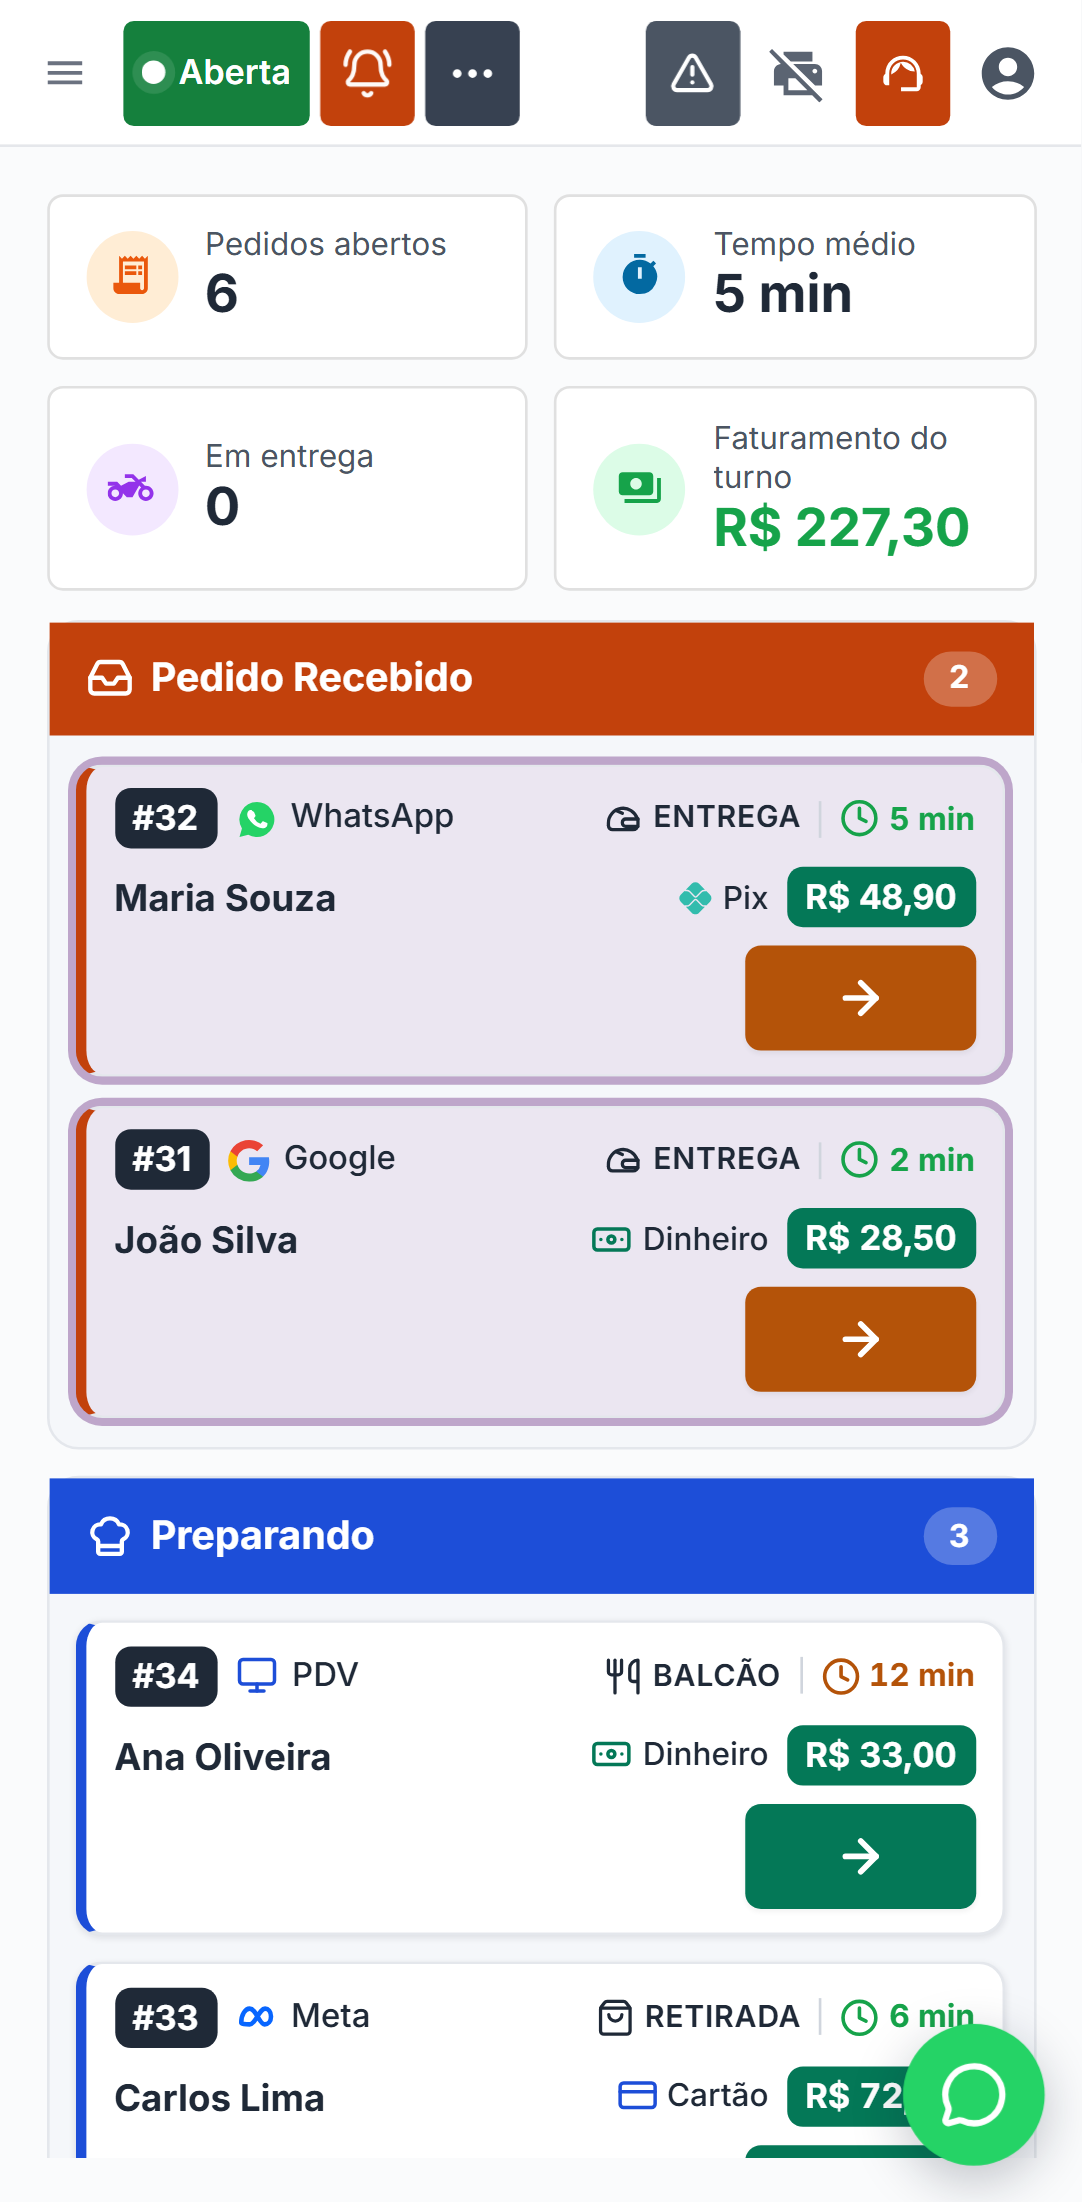
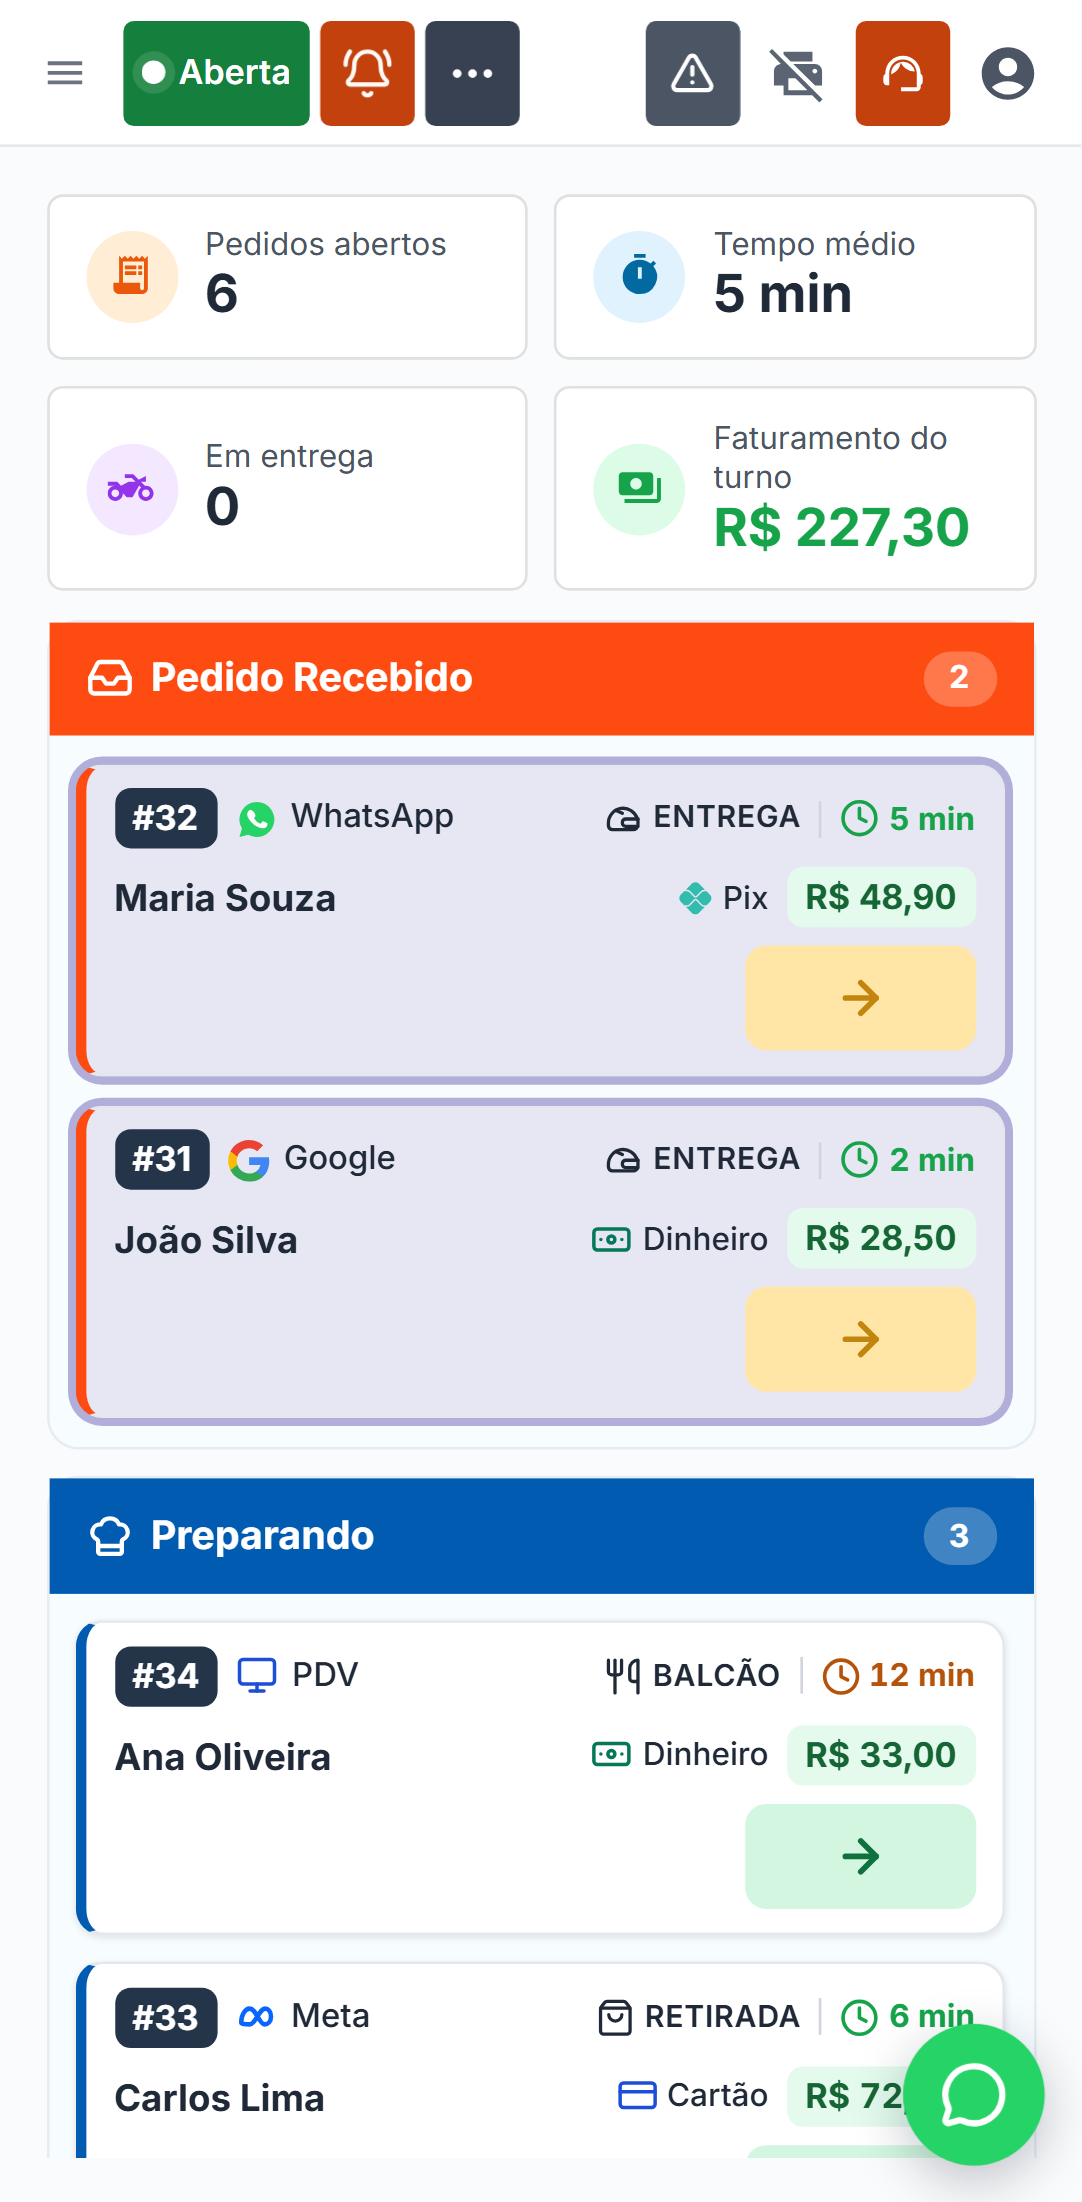
fix(kanban): cores e botões exatamente como o modelo do item 56 (botões claros com seta colorida, selo do valor verde-claro, cabeçalhos #FE4B11/#015BB1/#00946E)
O dono pediu o Kanban exatamente como a imagem: sai a exigência de fundo sempre escuro nos
botões. Faixa do card na cor do cabeçalho; verde do painel igual ao da seta.

diff --git a/app/admin/pedidos/page.tsx b/app/admin/pedidos/page.tsx
@@ -87,21 +87,21 @@ interface ColunaConfig {
 const COLUNA_CONFIG: Record<Coluna, ColunaConfig> = {
   recebido: {
     label: 'Pedido Recebido',
-    headerBg: 'bg-[#C2410C]',
+    headerBg: 'bg-[#FE4B11]',
     Icon: Inbox,
     emptyTitle: 'Nenhum pedido novo',
     EmptyIcon: Inbox,
   },
   preparando: {
     label: 'Preparando',
-    headerBg: 'bg-[#1D4ED8]',
+    headerBg: 'bg-[#015BB1]',
     Icon: ChefHat,
     emptyTitle: 'Nada em preparo',
     EmptyIcon: ChefHat,
   },
   pronto: {
     label: 'Pronto p/ Despacho',
-    headerBg: 'bg-[#047857]',
+    headerBg: 'bg-[#00946E]',
     Icon: HandPlatter,
     emptyTitle: 'Nada pronto ainda',
     EmptyIcon: HandPlatter,
@@ -145,8 +145,8 @@ function SubSecao({ titulo, cor, vazio, children }: { titulo: string; cor: strin
 
 /** Estado vazio de uma coluna do Kanban: ilustração cinza-clara em vez de texto solto. */
 /**
- * Botão de etapa do card (item 56): só a seta branca, à direita. Amarelo forte = aceitar; verde = próxima
- * etapa. Fundo sólido escuro o bastante para a seta branca passar de 4,5:1; cantos pouco arredondados.
+ * Botão de etapa do card (item 56): só a seta, à direita, IGUAL ao modelo (docs/kanban-56/modelo.jpeg):
+ * amarelo-claro com seta âmbar = aceitar; verde-claro com seta verde = próxima etapa.
  */
 function BotaoEtapa({ cor, rotulo, onClick }: { cor: 'aceitar' | 'avancar'; rotulo: string; onClick: () => void }) {
   return (
@@ -157,7 +157,7 @@ function BotaoEtapa({ cor, rotulo, onClick }: { cor: 'aceitar' | 'avancar'; rotu
       title={rotulo}
       data-testid="card-etapa"
       data-cor={cor}
-      className={`inline-flex h-[34px] w-[88px] items-center justify-center rounded-[6px] text-white shadow-sm transition-colors focus-visible:outline focus-visible:outline-2 focus-visible:outline-offset-2 focus-visible:outline-[#1F2937] active:scale-[0.98] ${cor === 'aceitar' ? 'bg-[#B45309] hover:bg-[#92400E]' : 'bg-[#047857] hover:bg-[#065F46]'}`}
+      className={`inline-flex h-[30px] w-[88px] items-center justify-center rounded-[8px] transition-colors focus-visible:outline focus-visible:outline-2 focus-visible:outline-offset-2 focus-visible:outline-[#1F2937] active:scale-[0.98] ${cor === 'aceitar' ? 'bg-[#FFE6A6] text-[#C2850D] hover:bg-[#FFDB85]' : 'bg-[#D3F6E0] text-[#0F713E] hover:bg-[#BDEFD0]'}`}
     >
       <ArrowRight className="h-[20px] w-[20px]" strokeWidth={2.6} aria-hidden />
     </button>
@@ -962,9 +962,9 @@ export default function PedidosPage() {
           {(['recebido', 'preparando', 'pronto'] as Coluna[]).map((coluna) => {
             const colOrders = orders.filter((o) => colunaDe(o) === coluna)
             const cfg = COLUNA_CONFIG[coluna]
-            const accent: Record<Coluna, string> = { recebido: 'border-l-[#C2410C]', preparando: 'border-l-[#1D4ED8]', pronto: 'border-l-[#047857]' }
+            const accent: Record<Coluna, string> = { recebido: 'border-l-[#FE4B11]', preparando: 'border-l-[#015BB1]', pronto: 'border-l-[#00946E]' }
             return (
-              <div key={coluna} className="flex flex-col overflow-hidden rounded-[12px] border border-[#E4E7EC] bg-[#F5F7FA] max-lg:flex-shrink-0 max-lg:overflow-visible" data-testid={`coluna-${coluna}`}>
+              <div key={coluna} className="flex flex-col overflow-hidden rounded-[12px] border border-[#E6EDF2] bg-[#F7FCFF] max-lg:flex-shrink-0 max-lg:overflow-visible" data-testid={`coluna-${coluna}`}>
                 <div className={`flex items-center justify-between px-4 py-3 text-white ${cfg.headerBg}`} data-testid={`coluna-cabecalho-${coluna}`}>
                   <div className="flex items-center gap-2">
                     <cfg.Icon className="h-[18px] w-[18px]" strokeWidth={2.2} />
@@ -1009,7 +1009,7 @@ export default function PedidosPage() {
                         {/* Linha 1: #número · origem (item 55) ... atendimento | tempo. */}
                         <div className="flex items-center justify-between gap-2">
                           <div className="flex min-w-0 items-center gap-2">
-                            <span className="flex-shrink-0 rounded-[6px] bg-[#1F2937] px-2 py-0.5 text-[13px] font-bold text-white" data-testid="card-numero">#{order.numero}</span>
+                            <span className="flex-shrink-0 rounded-[6px] bg-[#243549] px-2 py-0.5 text-[13px] font-bold text-white" data-testid="card-numero">#{order.numero}</span>
                             {(() => {
                               const o = origemVisivelNoCard(order)
                               return o ? (
@@ -1059,7 +1059,7 @@ export default function PedidosPage() {
                                 <span className="kc-pag-nome">{order.pagamentoOnline ? 'Pix online' : order.formaPagamento === 'pix' ? 'Pix' : order.formaPagamento === 'dinheiro' ? 'Dinheiro' : 'Cartão'}</span>
                               </span>
                             )}
-                            <span className="whitespace-nowrap rounded-[6px] bg-[#047857] px-2 py-0.5 text-[13px] font-bold tabular-nums text-white" data-testid="card-preco">{brl(order.total)}</span>
+                            <span className="whitespace-nowrap rounded-[6px] bg-[#E3FAED] px-2 py-0.5 text-[13px] font-bold tabular-nums text-[#166534]" data-testid="card-preco">{brl(order.total)}</span>
                           </div>
                         </div>
                         {/* Linha 3: só a seta, à direita (amarelo = aceitar; verde = próxima etapa). Não abre o painel. */}

diff --git a/components/pedidos/painel-pedido.tsx b/components/pedidos/painel-pedido.tsx
@@ -23,8 +23,8 @@ import { textoTempoPedido } from '@/lib/tempo-pedido'
  */
 const brl = (v: number) => v.toLocaleString('pt-BR', { style: 'currency', currency: 'BRL' })
 const hora = (iso: string | null | undefined) => (iso ? new Date(iso).toLocaleTimeString('pt-BR', { hour: '2-digit', minute: '2-digit' }) : null)
-// Mesmo verde do botão de próxima etapa do card (item 56): mais escuro, contraste ≥ 4,5:1 no branco.
-const VERDE = 'text-[#047857]'
+// Mesmo verde da seta de próxima etapa do card (item 56, modelo).
+const VERDE = 'text-[#0F713E]'
 const TITULO = 'mb-2 text-[12px] font-bold uppercase tracking-wide text-text-subtle'
 
 type Etapa = { id: string; rotulo: string; quando: string | null }

diff --git a/docs/kanban-56/README.md b/docs/kanban-56/README.md
@@ -5,27 +5,20 @@ O modelo é `modelo.jpeg` (a imagem que o dono mandou). O topo continua como era
 ## O que mudou
 
 - **Colunas:**
-  - cabeçalho sólido com ícone, título e contador em pílula;
-  - corpo cinza-claro com borda suave e cantos de 12 px.
-  - As cores seguem o modelo, porém **mais escuras**, para o texto branco passar de 4,5:1 (regra 2):
-
-    | Coluna | Cor | Contraste |
-    |---|---|---|
-    | Pedido Recebido | laranja #C2410C | 5,2 |
-    | Preparando | azul #1D4ED8 | 6,7 |
-    | Pronto p/ Despacho | verde #047857 | 5,5 |
-
+  - cabeçalho sólido nas cores EXATAS do modelo: laranja #FE4B11, azul #015BB1, verde #00946E;
+  - ícone, título e contador em pílula;
+  - corpo #F7FCFF com borda suave e cantos de 12 px.
 - **Card**, sempre com 3 linhas, branco e faixa à esquerda na cor da coluna:
-  1. `#número` em pílula escura · ícone e nome da **origem** (item 55) … à direita, ícone e ENTREGA / RETIRADA / BALCÃO / MESA | ⏱ tempo.
+  1. `#número` em pílula escura (#243549) · ícone e nome da **origem** (item 55) … à direita, ícone e ENTREGA / RETIRADA / BALCÃO / MESA | ⏱ tempo.
      - Pedido da vitrine **Direto** não mostra ícone nem nome.
      - PDV, balcão e mesa mostram o canal ("PDV", "Salão").
      - A dica diz, por exemplo: "Origem: Instagram (campanha X)".
-  2. **Nome** em negrito · 📞 telefone · ícone e forma de pagamento ("Pix online" quando for o caso) · **valor em selo verde** (5,5:1).
-  3. **Botão só com a seta, à direita**, com 88 × 34 px (40 px de altura no toque):
-     - **amarelo forte** (#B45309, seta branca, 5,0:1) para aceitar;
-     - **verde** (#047857, 5,5:1) para a próxima etapa;
-     - cantos de 6 px.
+  2. **Nome** em negrito · 📞 telefone · ícone e forma de pagamento ("Pix online" quando for o caso) · valor em selo verde-claro (#E3FAED, texto verde).
+  3. **Botão só com a seta, à direita**, 88 × 30 px, cantos de 8 px, como no modelo:
+     - **amarelo-claro** #FFE6A6 com seta âmbar para aceitar;
+     - **verde-claro** #D3F6E0 com seta verde para a próxima etapa.
      - "Na logística" continua igual quando a loja usa o despacho de rotas.
+- **Cores = o modelo, exatamente** (decisão do dono, 2026-10-05): a regra de "fundo sempre escuro" saiu. Os botões e o selo do valor ficam nos tons claros da imagem.
 - **Card estreito** (menu aberto + 4ª coluna, tablet, celular): o card encolhe pela **largura dele** (container query). Primeiro some o telefone, depois os nomes (origem, pagamento, atendimento), e fica o ícone com a dica. Nada se sobrepõe.
 - **Mantido:**
   - o clique no card abre o painel lateral (sem bloquear a tela);
@@ -49,11 +42,11 @@ O modelo é `modelo.jpeg` (a imagem que o dono mandou). O topo continua como era
 ## Testes
 - `scripts/kanban/e2e-kanban-56.mjs`: **33/33**.
   - Origem certa em cada um dos 6 pedidos do modelo, sem ícone para Direto, e PDV no balcão.
-  - Dica da origem, 3 linhas, seta à direita sem ocupar a largura, cantos de 6 px.
-  - Contraste dos botões, do valor e dos 3 cabeçalhos; faixa na cor da coluna.
+  - Dica da origem, 3 linhas, seta à direita sem ocupar a largura, cantos de 8 px.
+  - Cores do modelo nos botões (amarelo-claro e verde-claro), no valor (verde-claro) e nos 3 cabeçalhos; faixa na cor da coluna.
   - O pedido novo pisca e o em preparo não.
   - Painel com a origem; a seta aceita.
   - Linha 2 sem sobreposição com 3 e com 4 colunas.
   - Tablet e celular: sem rolagem lateral e card mínimo.
-- `e2e-kanban-card`: 72/72. Foi atualizada para o desenho novo: o valor virou selo verde e o botão virou só a seta, à direita.
+- `e2e-kanban-card`: 72/72. Foi atualizada para o desenho novo: o valor virou selo verde-claro e o botão virou só a seta, à direita, nas cores do modelo.
 - Também passaram: `kanban-topo-v2` 121/121, `kanban-topo` (som e aviso) 48/48 e `alarme-global` 27/27.
